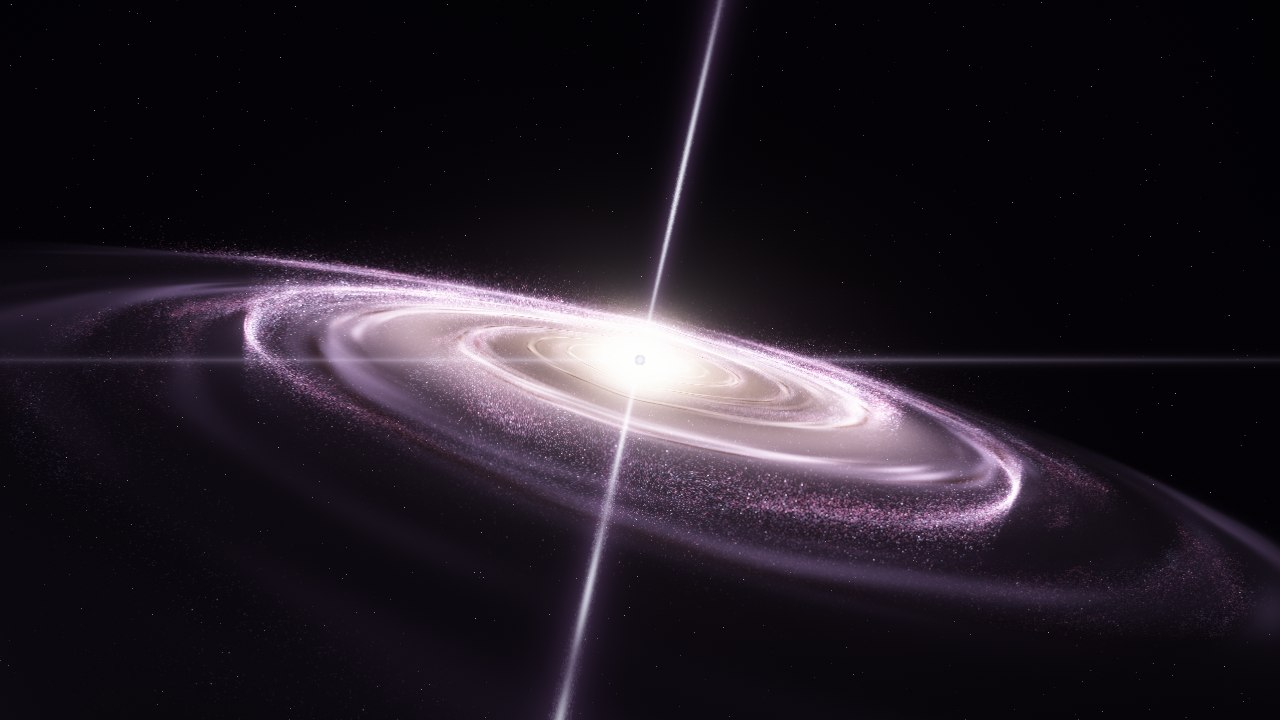
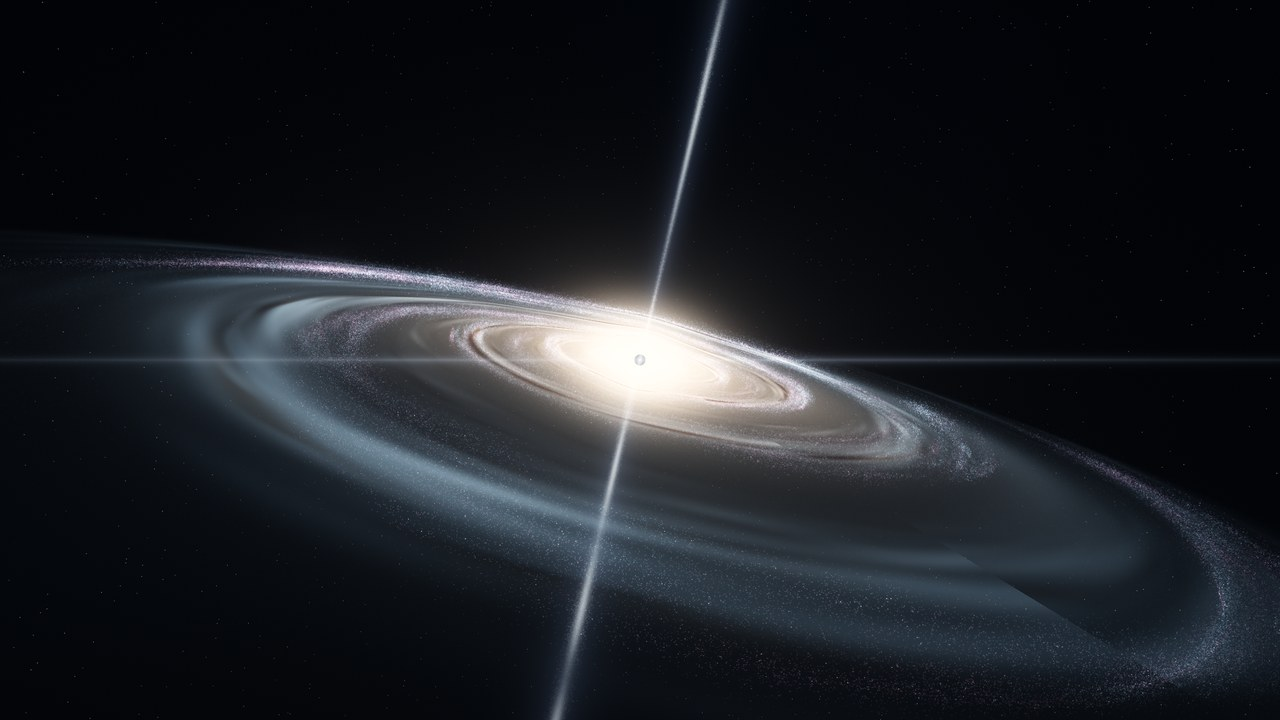
README: new screenshots, Glass City and Dot Field, variable resolution
Fresh full-resolution screenshots of eight scenes, leading with the two
new ones; Fractal flights replaces Liquid in the grid. A short section
explains that every scene finds the sharpest resolution the GPU can keep
up with, and that F1 shows it.

Changed region(s): [[0.0, 0.2444, 1.0, 1.0], [0.5312, 0.0, 0.5938, 0.2444]]

diff --git a/README.md b/README.md
@@ -1,7 +1,8 @@
 # Visualizer
 
 A modern take on the old Winamp visualisers. It listens to whatever your PC is playing (Spotify, a browser, a game)
-and reacts to it: it follows the beat, spots build-ups and drops, and picks colours from the album art.
+and reacts to it: it follows the beat, spots build-ups and drops, and picks colours from the album art. Every scene
+renders at your screen's full resolution when your graphics card can keep up.
 
 It's one small `.exe`. There's no installer, and it keeps itself up to date.
 
@@ -9,9 +10,10 @@ It's one small `.exe`. There's no installer, and it keeps itself up to date.
 
 | | |
 |---|---|
+| ![Glass City](docs/screenshots/glass-city.jpg) | ![Dot Field](docs/screenshots/dot-field.jpg) |
 | ![Neon Grid](docs/screenshots/neon-grid.jpg) | ![Aurora](docs/screenshots/aurora.jpg) |
 | ![Detonation](docs/screenshots/detonation.jpg) | ![Signal](docs/screenshots/signal.jpg) |
-| ![Galaxy](docs/screenshots/galaxy.jpg) | ![Liquid](docs/screenshots/liquid.jpg) |
+| ![Galaxy](docs/screenshots/galaxy.jpg) | ![Fractal flights](docs/screenshots/fractal-flights.jpg) |
 
 ## Visualisers
 
@@ -27,6 +29,12 @@ It's one small `.exe`. There's no installer, and it keeps itself up to date.
 * **Glass City**: a flight through cyberspace, a city of glass with currents of light running through it.
 * **Spectrum**: a classic spectrum analyser.
 * **Dot Field**: 400,000 neon dots on a plane, rising into a landscape made from the music.
+
+### Sharp at any size
+
+Each visualiser finds the sharpest resolution your graphics card can keep up with, and remembers it for next time.
+On a modern card most of them render every pixel, even at 1440p. If it ever has to drop the resolution, it does so
+gradually, and big moments don't push it down. Press `F1` to see the resolution it's rendering at.
 
 ## Using it
 
